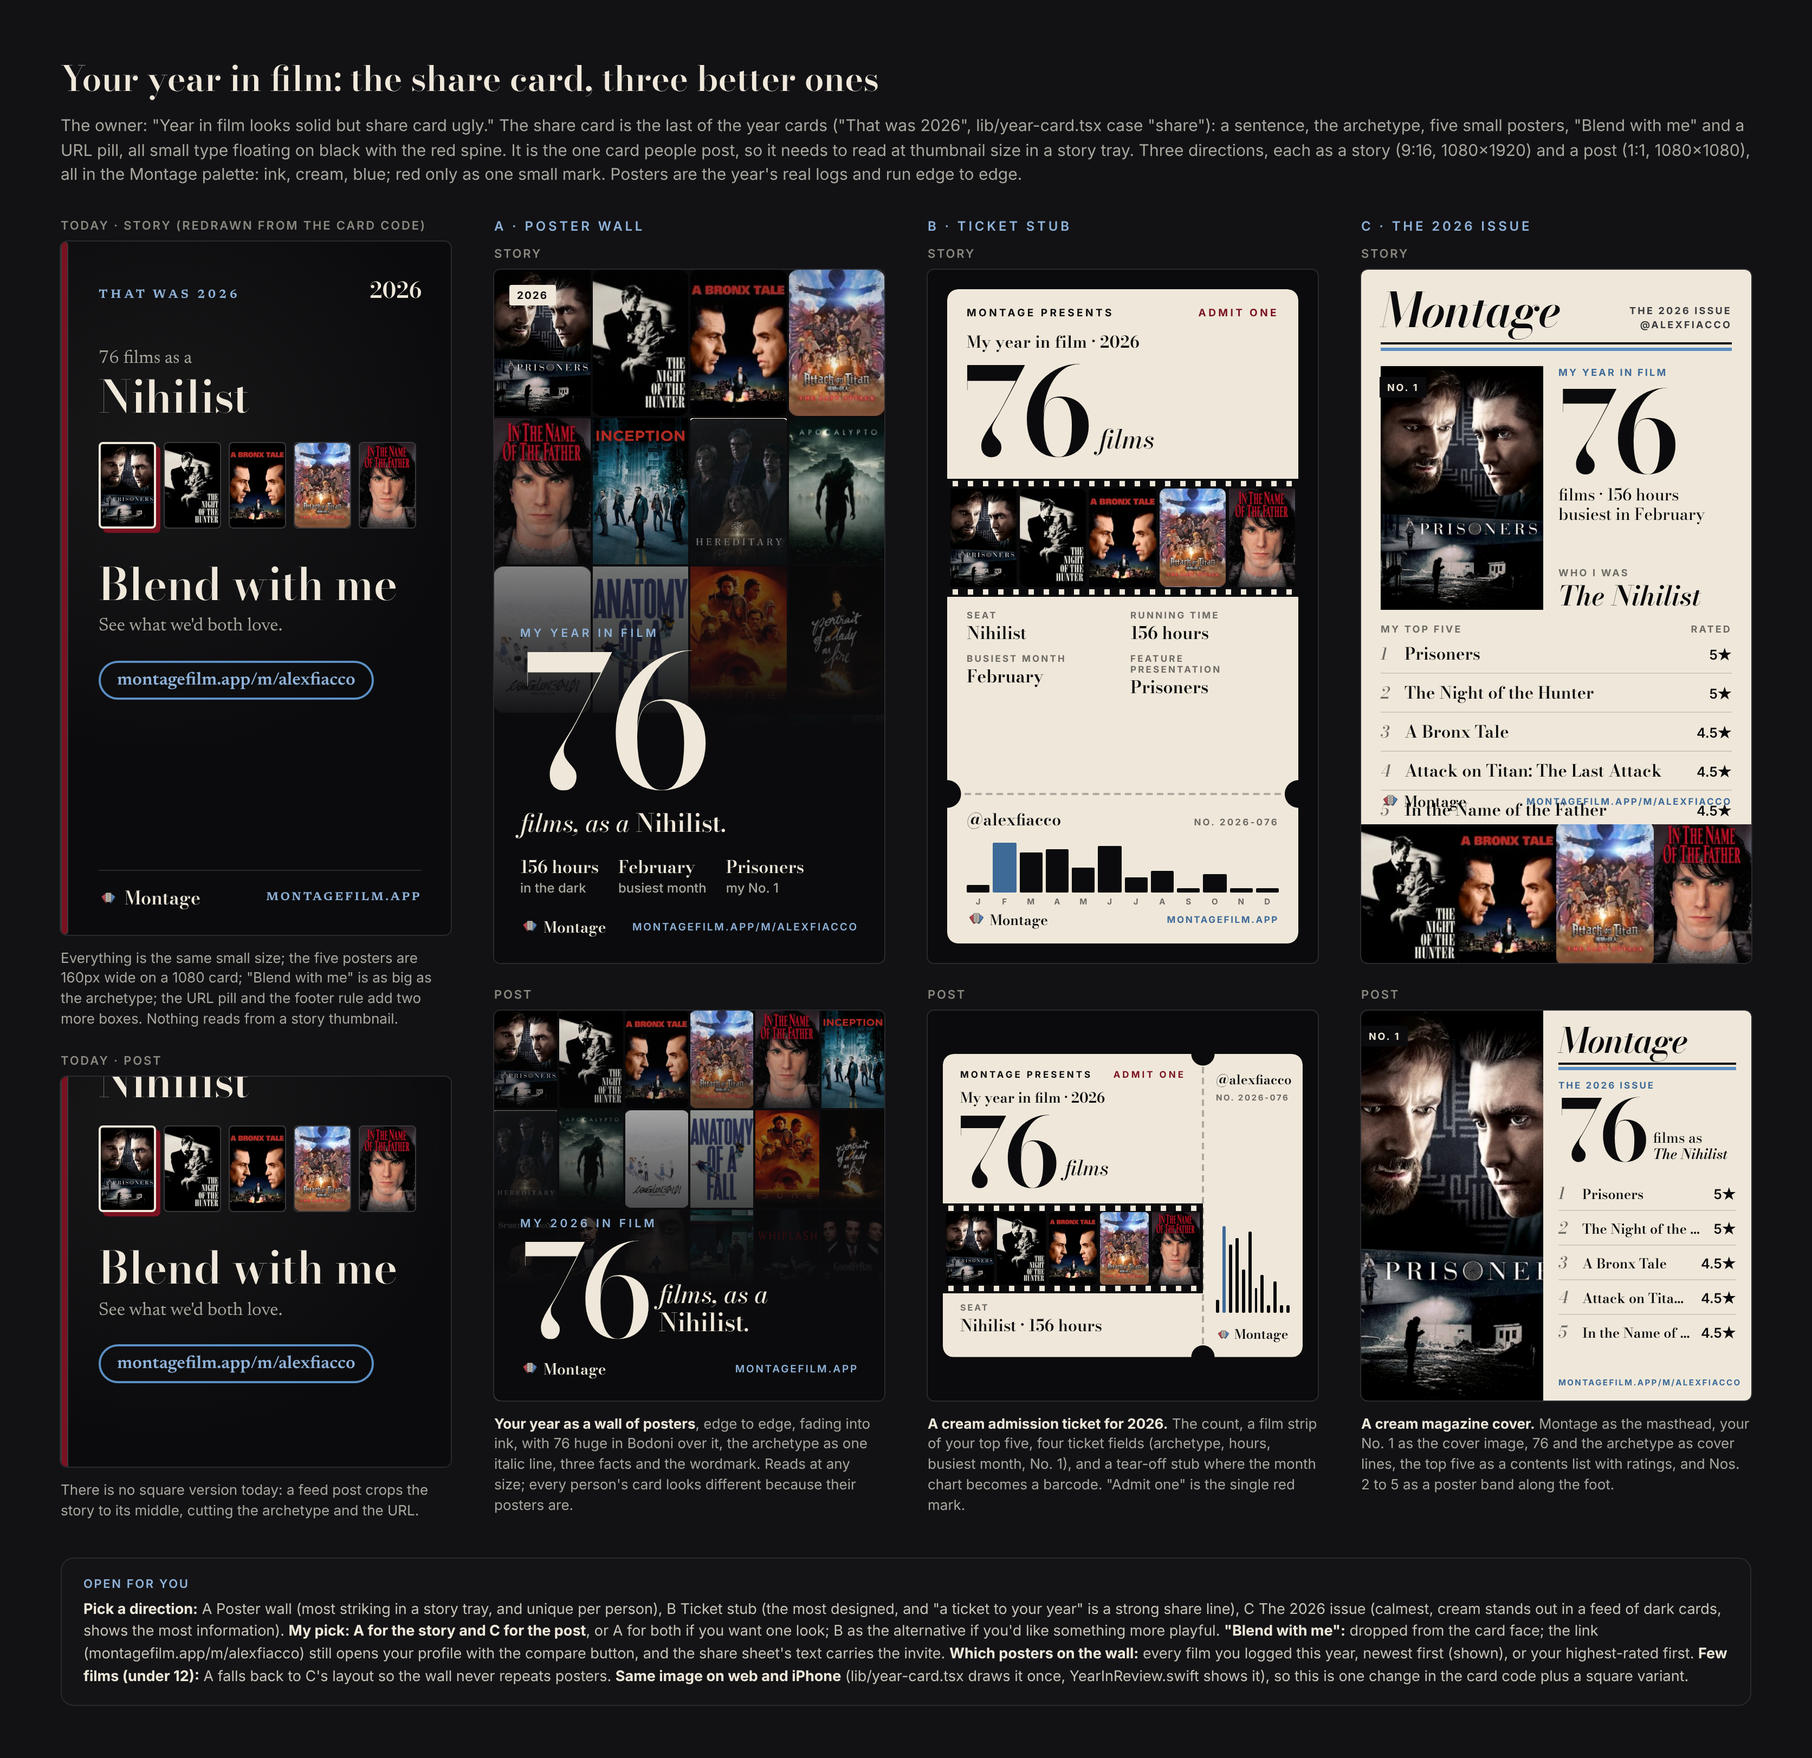
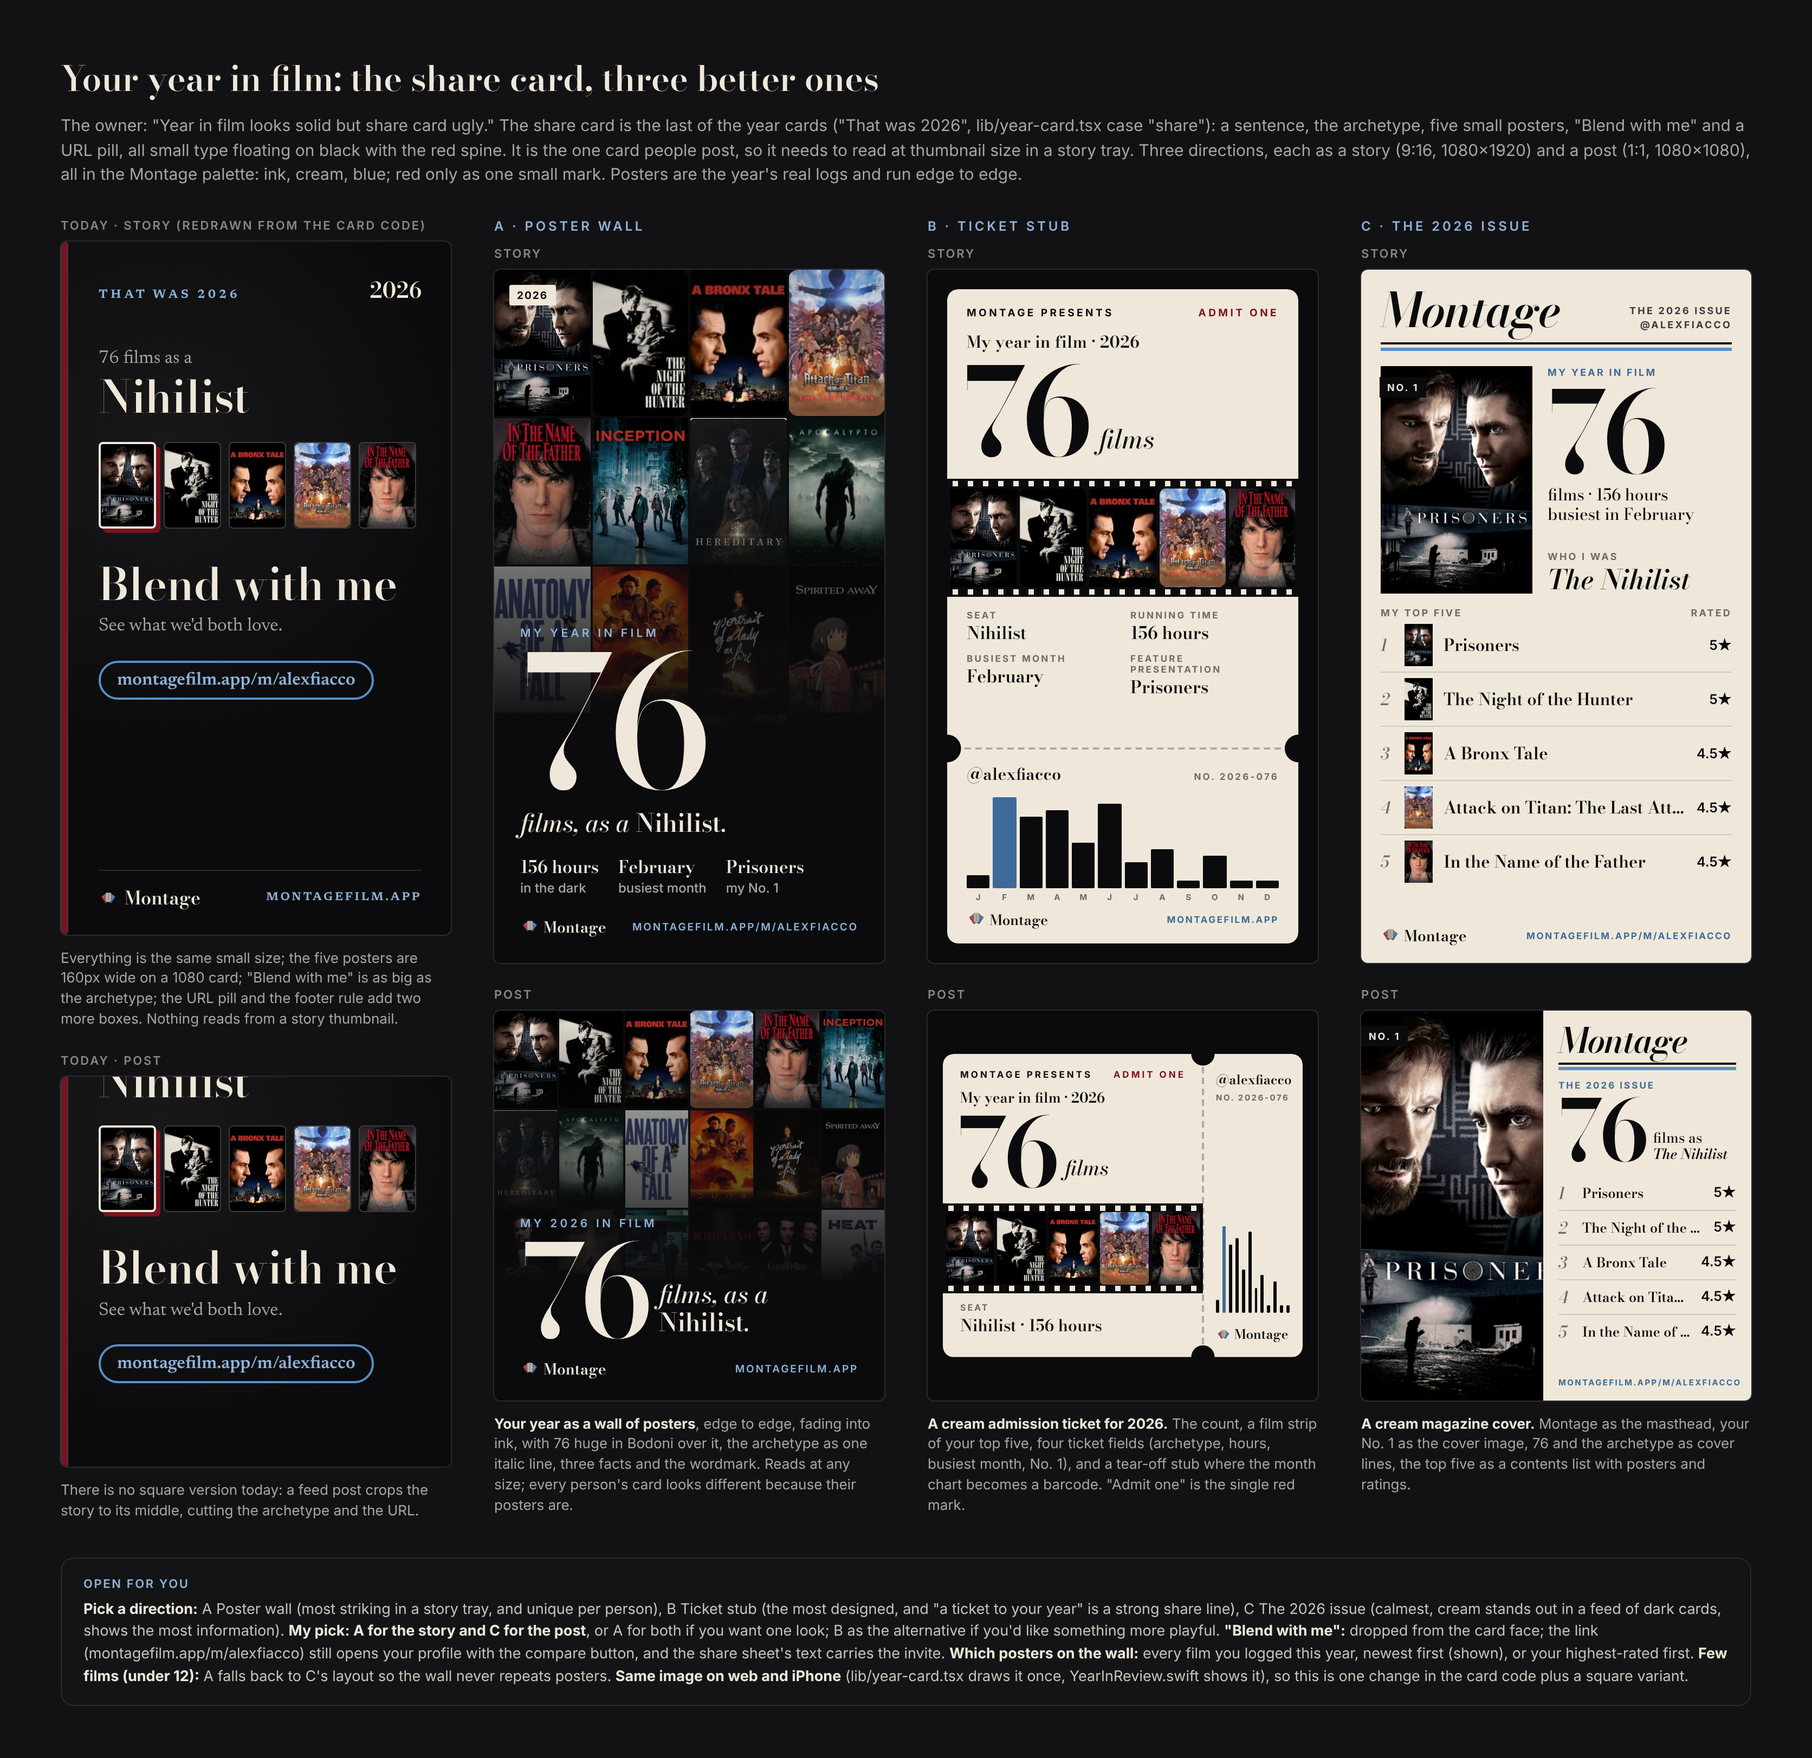
Mocks: film-page-v3, recut-v3, year-share-v2
Film page: one rating block (3 ways), friends with their own ratings,
where to watch as service logos under the rating. Recut: six custom
marks and eight names on the button. Year share card: poster wall,
ticket stub and editorial cover, story and post.

Claude-Session: https://claude.ai/code/session_013WRDCFXH8nihP92apJAVW7

diff --git a/mockups/journeys/year-share-v2.html b/mockups/journeys/year-share-v2.html
@@ -40,7 +40,7 @@
 /* B · ticket */
 .tb{background:#0B0B0D}
 .tix{position:absolute;left:18px;right:18px;top:18px;bottom:18px;background:#EFE8DA;color:#0B0B0D;border-radius:10px;overflow:hidden;
- -webkit-mask:radial-gradient(circle 13px at 0 466px,transparent 12.5px,#000 13px) left/51% 100% no-repeat,radial-gradient(circle 13px at 100% 466px,transparent 12.5px,#000 13px) right/51% 100% no-repeat}
+ -webkit-mask:radial-gradient(circle 13px at 0 424px,transparent 12.5px,#000 13px) left/51% 100% no-repeat,radial-gradient(circle 13px at 100% 424px,transparent 12.5px,#000 13px) right/51% 100% no-repeat}
 .tix .hd{display:flex;justify-content:space-between;align-items:center;padding:16px 18px 0;font:700 9.5px Inter;letter-spacing:2.2px;text-transform:uppercase}
 .tix .hd .ad{color:#7A1220}
 .tix .ti{font:600 15px 'Bodoni Moda';padding:0 18px;margin-top:10px;letter-spacing:.2px}
@@ -52,8 +52,8 @@
 .strip2 .r{display:grid;grid-template-columns:repeat(5,1fr);gap:3px;padding:0 3px}.strip2 i{aspect-ratio:2/3;background:#222 center/cover}
 .tix .gd{display:grid;grid-template-columns:1fr 1fr;gap:9px 14px;padding:12px 18px 0}
 .tix .gd span{font:700 8.5px Inter;letter-spacing:1.6px;color:#6E6B65;text-transform:uppercase}.tix .gd b{display:block;font:600 16px/1.15 'Bodoni Moda';letter-spacing:0;text-transform:none;color:#0B0B0D;margin-top:2px}
-.perf{position:absolute;left:16px;right:16px;top:465px;border-top:2px dashed rgba(11,11,13,.28)}
-.stub{position:absolute;left:0;right:0;top:466px;bottom:0;padding:12px 18px 0;display:flex;flex-direction:column}
+.perf{position:absolute;left:16px;right:16px;top:423px;border-top:2px dashed rgba(11,11,13,.28)}
+.stub{position:absolute;left:0;right:0;top:424px;bottom:0;padding:12px 18px 0;display:flex;flex-direction:column}
 .stub .t{display:flex;justify-content:space-between;align-items:baseline;font:600 15px 'Bodoni Moda'}.stub .t span{font:700 8.5px Inter;letter-spacing:1.6px;color:#6E6B65}
 .bc{display:flex;align-items:flex-end;gap:3px;height:52px;margin-top:10px}.bc i{flex:1;background:#0B0B0D;border-radius:1px}.bc i.hi{background:#3E6A98}
 .bcl{display:flex;gap:3px;margin-top:4px}.bcl span{flex:1;text-align:center;font:700 7.5px Inter;color:#6E6B65}
@@ -68,7 +68,7 @@
 .ed .mast span{font:700 9px/1.4 Inter;letter-spacing:1.6px;text-transform:uppercase;text-align:right;color:#3A3A3E}
 .ed .rule{height:2px;background:#0B0B0D;margin:10px 18px 0}.ed .rule.b{height:3px;background:#5B8FC4;margin-top:3px}
 .ed .hro2{display:flex;gap:14px;padding:14px 18px 0}
-.ed .hro2 .p1{width:150px;height:225px;flex:none;background:#222 center/cover;position:relative}
+.ed .hro2 .p1{width:140px;height:210px;flex:none;background:#222 center/cover;position:relative}
 .ed .hro2 .p1 em{position:absolute;left:-1px;top:10px;background:#0B0B0D;color:#EFE8DA;font:700 9px Inter;letter-spacing:1.4px;padding:4px 7px;font-style:normal}
 .ed .cov{flex:1;display:flex;flex-direction:column}
 .ed .cov .k{font:700 9px Inter;letter-spacing:1.6px;text-transform:uppercase;color:#3E6A98}
@@ -78,13 +78,14 @@
 .ed .cov .ar small{display:block;font:700 9px Inter;font-style:normal;letter-spacing:1.6px;text-transform:uppercase;color:#6E6B65;margin-bottom:4px}
 .ed .tp{padding:12px 18px 0}
 .ed .tp .h{font:700 9px Inter;letter-spacing:1.6px;text-transform:uppercase;color:#6E6B65;display:flex;justify-content:space-between}
-.ed .li{display:flex;align-items:baseline;gap:10px;padding:6px 0;border-bottom:1px solid rgba(11,11,13,.14);font:600 15.5px 'Bodoni Moda'}
+.ed .li{display:flex;align-items:center;gap:10px;padding:5px 0;border-bottom:1px solid rgba(11,11,13,.14);font:600 15.5px 'Bodoni Moda'}
 .ed .li:last-child{border-bottom:0}
 .ed .li i{font:italic 500 15px 'Bodoni Moda';color:#6E6B65;width:12px;font-style:italic}
 .ed .li span{flex:1;white-space:nowrap;overflow:hidden;text-overflow:ellipsis}.ed .li b{font:600 12.5px Inter;color:#0B0B0D}
 .ed .sp4{display:grid;grid-template-columns:repeat(4,1fr);gap:0;position:absolute;left:0;right:0;bottom:0;height:128px}
 .ed .sp4 i{background:#222 center/cover}
-.ed .ft{position:absolute;left:18px;right:18px;bottom:138px;display:flex;justify-content:space-between;align-items:center;font:600 14px 'Bodoni Moda'}
+.ed .li u{width:26px;height:39px;flex:none;background:#222 center/cover}
+.ed .ft{position:absolute;left:18px;right:18px;bottom:14px;display:flex;justify-content:space-between;align-items:center;font:600 14px 'Bodoni Moda'}
 .ed .ft span:last-child{font:700 8.5px Inter;letter-spacing:1.3px;color:#3E6A98}
 </style></head><body>
 <h1>Your year in film: the share card, three better ones</h1>
@@ -93,12 +94,12 @@
 <div><div class="fmt">Today · story (redrawn from the card code)</div><div class="story td" id="t0"></div><p class="cap">Everything is the same small size; the five posters are 160px wide on a 1080 card; "Blend with me" is as big as the archetype; the URL pill and the footer rule add two more boxes. Nothing reads from a story thumbnail.</p><div class="fmt" style="margin-top:22px">Today · post</div><div class="post" style="margin-top:0;overflow:hidden"><div class="story td" id="t1" style="position:absolute;top:-140px;left:0;outline:0;border-radius:0"></div></div><p class="cap">There is no square version today: a feed post crops the story to its middle, cutting the archetype and the URL.</p></div>
 <div><div class="sl new">A · Poster wall</div><div class="fmt">Story</div><div class="story" id="a1"></div><div class="fmt" style="margin-top:22px">Post</div><div class="post" id="a2" style="margin-top:0"></div><p class="cap"><b>Your year as a wall of posters</b>, edge to edge, fading into ink, with 76 huge in Bodoni over it, the archetype as one italic line, three facts and the wordmark. Reads at any size; every person's card looks different because their posters are.</p></div>
 <div><div class="sl new">B · Ticket stub</div><div class="fmt">Story</div><div class="story tb" id="b1"></div><div class="fmt" style="margin-top:22px">Post</div><div class="post tb" id="b2" style="margin-top:0"></div><p class="cap"><b>A cream admission ticket for 2026.</b> The count, a film strip of your top five, four ticket fields (archetype, hours, busiest month, No. 1), and a tear-off stub where the month chart becomes a barcode. "Admit one" is the single red mark.</p></div>
-<div><div class="sl new">C · The 2026 issue</div><div class="fmt">Story</div><div class="story ed" id="c1"></div><div class="fmt" style="margin-top:22px">Post</div><div class="post ed" id="c2" style="margin-top:0"></div><p class="cap"><b>A cream magazine cover.</b> Montage as the masthead, your No. 1 as the cover image, 76 and the archetype as cover lines, the top five as a contents list with ratings, and Nos. 2 to 5 as a poster band along the foot.</p></div>
+<div><div class="sl new">C · The 2026 issue</div><div class="fmt">Story</div><div class="story ed" id="c1"></div><div class="fmt" style="margin-top:22px">Post</div><div class="post ed" id="c2" style="margin-top:0"></div><p class="cap"><b>A cream magazine cover.</b> Montage as the masthead, your No. 1 as the cover image, 76 and the archetype as cover lines, the top five as a contents list with posters and ratings.</p></div>
 </div>
 <div class="open"><h3>Open for you</h3><b>Pick a direction:</b> A Poster wall (most striking in a story tray, and unique per person), B Ticket stub (the most designed, and "a ticket to your year" is a strong share line), C The 2026 issue (calmest, cream stands out in a feed of dark cards, shows the most information). <b>My pick: A for the story and C for the post</b>, or A for both if you want one look; B as the alternative if you'd like something more playful. <b>"Blend with me":</b> dropped from the card face; the link (montagefilm.app/m/alexfiacco) still opens your profile with the compare button, and the share sheet's text carries the invite. <b>Which posters on the wall:</b> every film you logged this year, newest first (shown), or your highest-rated first. <b>Few films (under 12):</b> A falls back to C's layout so the wall never repeats posters. <b>Same image on web and iPhone</b> (lib/year-card.tsx draws it once, YearInReview.swift shows it), so this is one change in the card code plus a square variant.</div>
 <script src="beli.js"></script>
 <script>
-const P=["prisoners.png", "owner-recut-p4.jpg", "bronx.png", "owner-recut-p1.jpg", "itnotf.png", "inception.png", "hereditary.png", "owner-recut-p2.jpg", "owner-recut-p3.jpg", "tmdb/1ho0d4LNZw3Y0voeKmSvPSgJOJ2.jpg", "tmdb/1pdfLvkbY9ohJlCjQH2CZjjYVvJ.jpg", "tmdb/2LquGwEhbg3soxSCs9VNyh5VJd9.jpg", "tmdb/39wmItIWsg5sZMyRUHLkWBcuVCM.jpg", "tmdb/3bhkrj58Vtu7enYsRolD1fZdja1.jpg", "tmdb/6d5XOczc226jECq0LIX0siKtgHR.jpg", "tmdb/7IiTTgloJzvGI1TAYymCfbfl3vT.jpg", "tmdb/7fn624j5lj3xTme2SgiLCeuedmO.jpg", "tmdb/9OkCLM73MIU2CrKZbqiT8Ln1wY2.jpg", "tmdb/e09dLw1Ljtccd2P4NsuUvVtS5du.jpg", "tmdb/eCOtqtfvn7mxGl6nfmq4b1exJRc.jpg", "tmdb/eWdyYQreja6JGCzqHWXpWHDrrPo.jpg", "tmdb/evKz85EKouVbIr51zy5fOtpNRPg.jpg", "tmdb/gajva2L0rPYkEWjzgFlBXCAVBE5.jpg", "tmdb/hA2ple9q4qnwxp3hKVNhroipsir.jpg", "tmdb/iYypPT4bhqXfq1b6EnmxvRt6b2Y.jpg", "tmdb/k3waqVXSnvCZWfJYNtdamTgTtTA.jpg", "tmdb/kf1Jb1c2JAOqjuzA3H4oDM263uB.jpg", "tmdb/lGCEKlJo2CnWydQj7aamY7s1S7Q.jpg", "tmdb/lOMGc8bnSwQhS4XyE1S99uH8NXf.jpg", "tmdb/lqoMzCcZYEFK729d6qzt349fB4o.jpg", "tmdb/mZ4gBdfkhP9tvLH1DO4m4HYtiyi.jpg", "tmdb/nSxDa3M9aMvGVLoItzWTepQ5h5d.jpg", "tmdb/pWDtjs568ZfOTMbURQBYuT4Qxka.jpg", "tmdb/qLnfEmPrDjJfPyyddLJPkXmshkp.jpg", "tmdb/u68AjlvlutfEIcpmbYpKcdi09ut.jpg", "tmdb/uAR0AWqhQL1hQa69UDEbb2rE5Wx.jpg", "tmdb/uDO8zWDhfWwoFdKS4fzkUJt0Rf0.jpg"];
+const P=["prisoners.png", "owner-recut-p4.jpg", "bronx.png", "owner-recut-p1.jpg", "itnotf.png", "inception.png", "hereditary.png", "owner-recut-p2.jpg", "tmdb/1ho0d4LNZw3Y0voeKmSvPSgJOJ2.jpg", "tmdb/1pdfLvkbY9ohJlCjQH2CZjjYVvJ.jpg", "tmdb/2LquGwEhbg3soxSCs9VNyh5VJd9.jpg", "tmdb/39wmItIWsg5sZMyRUHLkWBcuVCM.jpg", "tmdb/3bhkrj58Vtu7enYsRolD1fZdja1.jpg", "tmdb/6d5XOczc226jECq0LIX0siKtgHR.jpg", "tmdb/7IiTTgloJzvGI1TAYymCfbfl3vT.jpg", "tmdb/7fn624j5lj3xTme2SgiLCeuedmO.jpg", "tmdb/9OkCLM73MIU2CrKZbqiT8Ln1wY2.jpg", "tmdb/e09dLw1Ljtccd2P4NsuUvVtS5du.jpg", "tmdb/eCOtqtfvn7mxGl6nfmq4b1exJRc.jpg", "tmdb/eWdyYQreja6JGCzqHWXpWHDrrPo.jpg", "tmdb/evKz85EKouVbIr51zy5fOtpNRPg.jpg", "tmdb/gajva2L0rPYkEWjzgFlBXCAVBE5.jpg", "tmdb/hA2ple9q4qnwxp3hKVNhroipsir.jpg", "tmdb/iYypPT4bhqXfq1b6EnmxvRt6b2Y.jpg", "tmdb/k3waqVXSnvCZWfJYNtdamTgTtTA.jpg", "tmdb/kf1Jb1c2JAOqjuzA3H4oDM263uB.jpg", "tmdb/lGCEKlJo2CnWydQj7aamY7s1S7Q.jpg", "tmdb/lOMGc8bnSwQhS4XyE1S99uH8NXf.jpg", "tmdb/lqoMzCcZYEFK729d6qzt349fB4o.jpg", "tmdb/mZ4gBdfkhP9tvLH1DO4m4HYtiyi.jpg", "tmdb/nSxDa3M9aMvGVLoItzWTepQ5h5d.jpg", "tmdb/pWDtjs568ZfOTMbURQBYuT4Qxka.jpg", "tmdb/qLnfEmPrDjJfPyyddLJPkXmshkp.jpg", "tmdb/u68AjlvlutfEIcpmbYpKcdi09ut.jpg", "tmdb/uAR0AWqhQL1hQa69UDEbb2rE5Wx.jpg", "tmdb/uDO8zWDhfWwoFdKS4fzkUJt0Rf0.jpg"];
 const u=f=>`background-image:url(../img/${f})`;
 const TOP=[['Prisoners','5★'],['The Night of the Hunter','5★'],['A Bronx Tale','4.5★'],['Attack on Titan: The Last Attack','4.5★'],['In the Name of the Father','4.5★']];
 const M=[2,14,11,12,7,13,4,6,1,5,0,1];
@@ -120,7 +121,7 @@ document.getElementById('b1').innerHTML=`<div class="tix"><div class="hd"><span>
 <div class="ti">My year in film · 2026</div><div class="n">76<small>films</small></div>
 <div class="strip2"><div class="r">${P.slice(0,5).map(f=>`<i style="${u(f)}"></i>`).join('')}</div></div>
 <div class="gd"><span>Seat<b>Nihilist</b></span><span>Running time<b>156 hours</b></span><span>Busiest month<b>February</b></span><span>Feature presentation<b>Prisoners</b></span></div>
-<div class="perf"></div><div class="stub"><div class="t">@alexfiacco<span>NO. 2026-076</span></div>${bc(46)}<div class="bcl">${'JFMAMJJASOND'.split('').map(m=>`<span>${m}</span>`).join('')}</div>
+<div class="perf"></div><div class="stub"><div class="t">@alexfiacco<span>NO. 2026-076</span></div>${bc(84)}<div class="bcl">${'JFMAMJJASOND'.split('').map(m=>`<span>${m}</span>`).join('')}</div>
 <div class="u"><span><span class="fanm"></span> Montage</span><span>MONTAGEFILM.APP</span></div></div></div>`;
 document.getElementById('b2').innerHTML=`<div class="tixs"><div style="position:absolute;left:0;top:0;bottom:0;width:240px;display:flex;flex-direction:column">
 <div class="hd" style="display:flex;justify-content:space-between;padding:14px 16px 0;font:700 8.5px Inter;letter-spacing:2px;text-transform:uppercase"><span>Montage presents</span><span style="color:#7A1220">Admit one</span></div>
@@ -132,12 +133,12 @@ document.getElementById('b2').innerHTML=`<div class="tixs"><div style="position:
 <div style="position:absolute;left:252px;right:12px;top:14px;bottom:12px;display:flex;flex-direction:column"><div style="font:600 12px 'Bodoni Moda'">@alexfiacco</div><div style="font:700 7.5px Inter;letter-spacing:1.3px;color:#6E6B65;margin-top:3px">NO. 2026-076</div>
 <div style="margin-top:auto">${bc(80)}</div><div style="font:600 12px 'Bodoni Moda';margin-top:10px"><span class="fanm" style="width:14px;height:14px"></span> Montage</div></div></div>`;
 // C
-const list=(n,sz)=>TOP.slice(0,n).map(([t,r],i)=>`<div class="li" style="${sz?'font-size:'+sz+'px;padding:4px 0':''}"><i>${i+1}</i><span>${t}</span><b>${r}</b></div>`).join('');
+const list=(n,sz,th)=>TOP.slice(0,n).map(([t,r],i)=>`<div class="li" style="${sz?'font-size:'+sz+'px;padding:4px 0':''}"><i>${i+1}</i>${th?`<u style="${u(P[i])}"></u>`:''}<span>${t}</span><b>${r}</b></div>`).join('');
 document.getElementById('c1').innerHTML=`<div class="mast"><b>Montage</b><span>The 2026 issue<br>@alexfiacco</span></div><div class="rule"></div><div class="rule b"></div>
 <div class="hro2"><div class="p1" style="${u(P[0])}"><em>NO. 1</em></div><div class="cov"><div class="k">My year in film</div><div class="n">76</div><div class="l">films · 156 hours<br>busiest in February</div><div class="ar"><small>Who I was</small>The Nihilist</div></div></div>
-<div class="tp"><div class="h"><span>My top five</span><span>Rated</span></div>${list(5)}</div>
+<div class="tp"><div class="h"><span>My top five</span><span>Rated</span></div>${list(5,0,1)}</div>
 <div class="ft"><span><span class="fanm"></span> Montage</span><span>MONTAGEFILM.APP/M/ALEXFIACCO</span></div>
-<div class="sp4">${P.slice(1,5).map(f=>`<i style="${u(f)}"></i>`).join('')}</div>`;
+`;
 document.getElementById('c2').innerHTML=`<div style="position:absolute;left:0;top:0;bottom:0;width:168px;${u(P[0])};background-size:cover;background-position:center"><em style="position:absolute;left:0;top:14px;background:#0B0B0D;color:#EFE8DA;font:700 9px Inter;letter-spacing:1.4px;padding:4px 7px;font-style:normal">NO. 1</em></div>
 <div style="position:absolute;left:182px;right:14px;top:14px;bottom:12px;display:flex;flex-direction:column">
 <div style="font:italic 600 32px/.9 'Bodoni Moda';letter-spacing:-1px">Montage</div><div style="height:2px;background:#0B0B0D;margin-top:6px"></div><div style="height:3px;background:#5B8FC4;margin-top:2px"></div>
